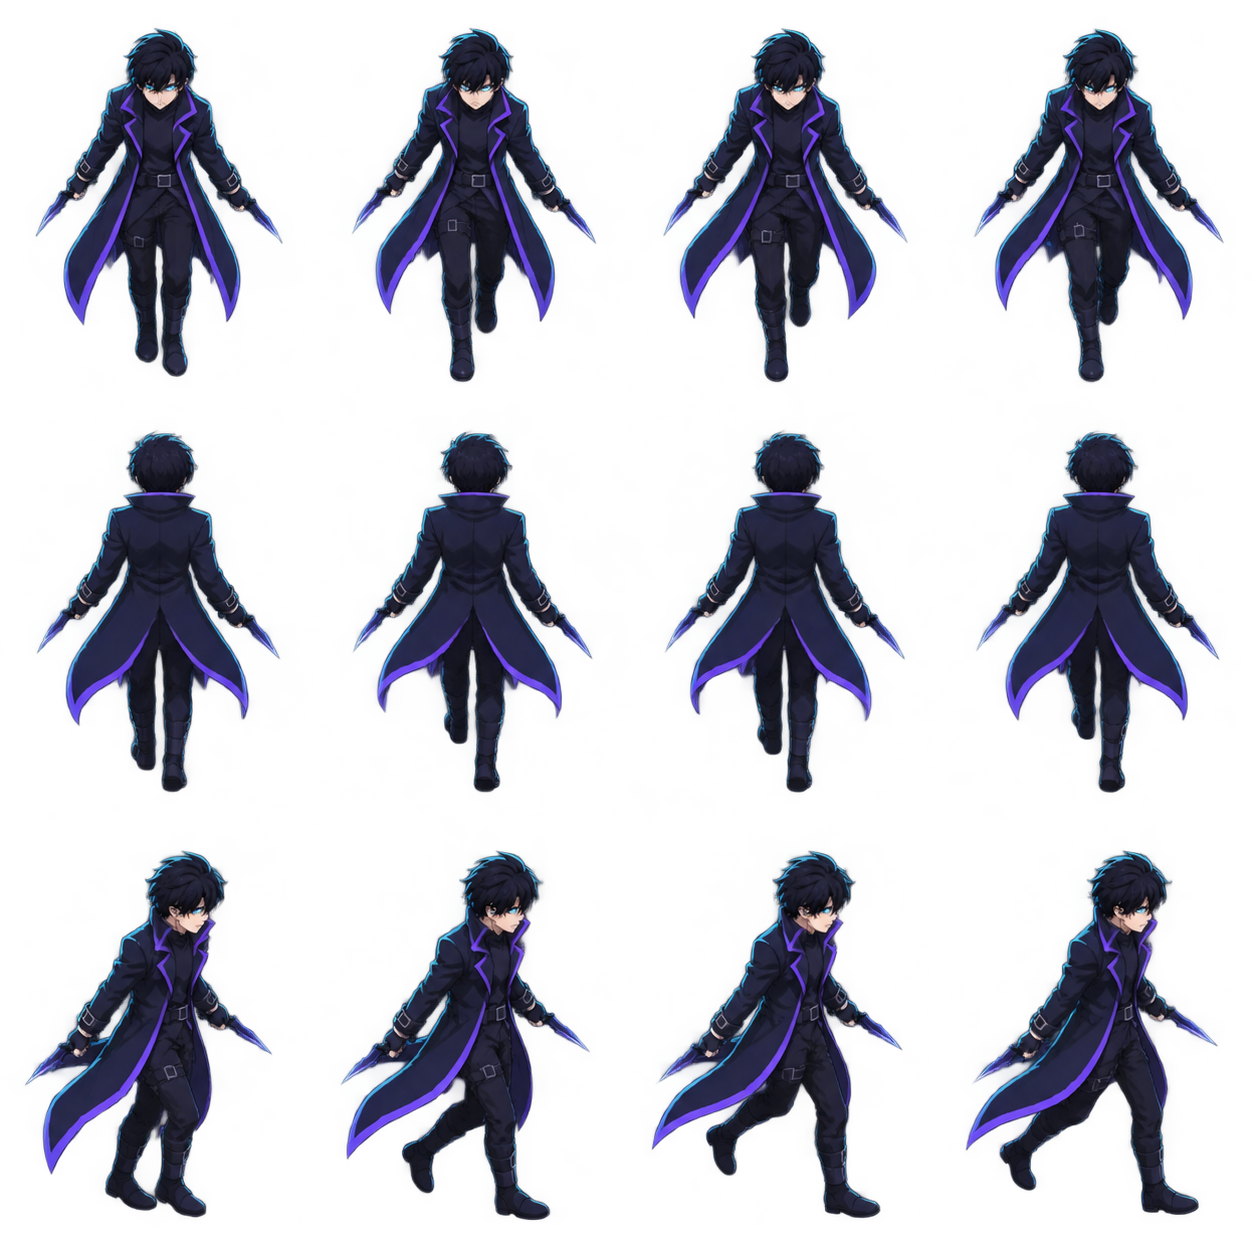
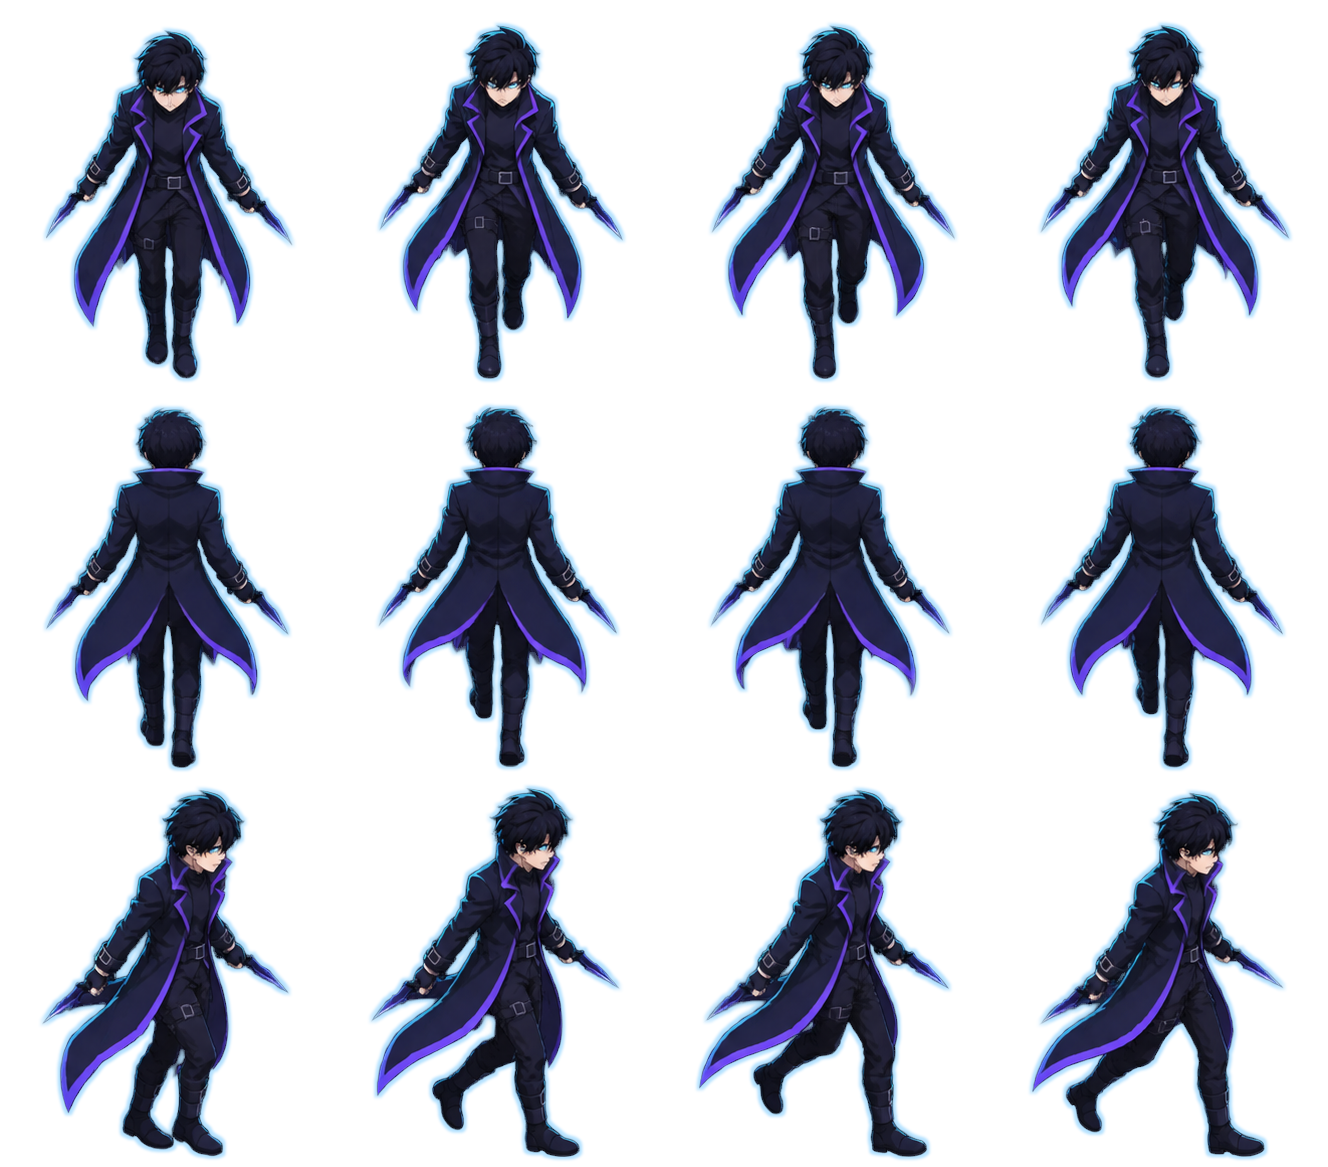
ART-02 이그리트 상태 시트와 플레이어 교체본 적용

diff --git a/docs/systems/07_shadow_summons.md b/docs/systems/07_shadow_summons.md
@@ -26,6 +26,13 @@
 3. 그림자는 적·플레이어·다른 그림자와 서로 밀어낸다. 질주 중 그림자-플레이어 쌍 제외는 확정한다(2026-11-10). 그림자가 포함된 쌍의 간격 0은 여전히 임시다. Separation_gap은 적끼리만 적용한다.
 4. 그림자는 중심에서 Body_radius만큼 맵 안쪽에 머물도록 보정한다. 화면 밖 이탈 자체를 금지하지 않는다. Move_speed 시작값 320은 플레이어 현재 250px/s보다 빠르다. 카메라 경계·추적 코드는 그대로다.
 
+### 이그리트 시트 표시 (ART-02)
+
+- `Sprite_layout=state3`은 1행 대기, 2행 오른쪽 이동, 3행 오른쪽 공격 시트다. 대기는 `Idle_fps`, 이동은 `Anim_fps`로4칸을 반복하고 이동의 x성분이 음수면 좌우 반전한다. x성분이0이면 직전 반전을 유지한다.
+- fan 공격 시작부터 실제 `Hit_time_sec` 타격 전까지 공격 행1번 칸을 유지하고, 기존 피해가 발생한 프레임에2번 칸을 표시한다. 그 뒤3·4번 칸을 각각 `Attack_after_frame_sec` 동안 표시한 뒤 대기/이동 표시로 돌아간다. 타격 시점·판정·모션 길이·공격 간격은 바꾸지 않는다. 공격 중 반전은 실제 공격 방향을 따른다.
+- 시트 한 칸은 원본 비율을 유지하며 화면 높이 `Sprite_cell_height`로 표시하고, 원본 `Sprite_baseline`을 판정 원 중심 아래 `Sprite_foot_y`에 맞춘다. 본체 아래에는32×12px·알파0.35의 검정 타원 그림자를 둔다.
+- 텔레포트 출발 잔상은 생성 순간의 칸·좌우 반전을 복제하고 기존 `Afterimage_sec`와 투명도를 유지한다. 잔상에는 발밑 그림자·판정이 없다. `Sprite_path`가 빈 베르는 기존 코드 도형과 도형 잔상을 그대로 사용한다.
+
 ### 적-그림자 분배와 그림자 간 조향 (S7-FIX-01)
 
 - 적-그림자 쌍은 겹침 해소량의 Enemy_push_share를 그림자가, 나머지 1-Enemy_push_share를 적이 받는다. 이 쌍에서는 Push_weight를 쓰지 않는다. 시작값은 0.1이며 0~1을 허용한다. 등록된 그림자 몸체가 이 값을 노출하며 밀어내기에서 읽는다. 적이 밀릴 공간이 없으면 기존 맵 보정·반복 처리에 따라 겹침이 남을 수 있다.
@@ -362,6 +369,16 @@ flowchart TD
 | Push_weight | 플레이어·그림자 쌍의 밀림 분배 무게 | 3 | Float | 상대 가중치 | 0 초과 | 불가 | 없음 | 자료형 오류: 데이터 오류 화면; 조건 위반: 데이터 오류 화면 | 없음 |
 | Attack_id | 이 그림자가 사용하는 공격 | igrit_attack | String | 해당 없음 | shadow_attack.csv에 참조 행 존재 | 불가 | shadow_attack.csv.Id | 자료형 오류: 데이터 오류 화면; 조건 위반: 데이터 오류 화면 | 없음 |
 | Enemy_push_share | 적-그림자 겹침 해소량 중 그림자가 받는 비율 | 0.1 | Float | 비율 | 0 이상 1 이하 | 불가 | 없음 | 자료형 오류: 데이터 오류 화면; 조건 위반: 데이터 오류 화면 | 적은 나머지 비율; 이 쌍은 Push_weight를 쓰지 않음 |
+| Sprite_path | 그림자 표시 시트 경로 | res://assets/art/shadow/igris_sheet.png | Optional Path | 해당 없음 | res:// 경로·역슬래시 없음·Texture2D 존재 | 허용 | 이미지 리소스 | 자료형/경로/이미지 오류: 데이터 오류 화면 | 빈칸이면 같은 행의 이미지 열도 모두 비우고 기존 코드 도형 사용 |
+| Sprite_layout | 시트의 행 배치 종류 | state3 | Optional String | 해당 없음 | 이미지 사용 그림자는 state3 | 이미지 미사용 시 허용 | Sprite_path | 조건 위반: 데이터 오류 화면 | state3=대기/이동/공격 행 |
+| Sprite_cols | 시트 가로 칸 수 | 4 | Optional Int | 칸 | 이미지 사용 시1 이상 | 이미지 미사용 시 허용 | Sprite_path | 자료형/조건 위반: 데이터 오류 화면 | 없음 |
+| Sprite_rows | 시트 세로 칸 수 | 3 | Optional Int | 칸 | 이미지 사용 시1 이상 | 이미지 미사용 시 허용 | Sprite_path | 자료형/조건 위반: 데이터 오류 화면 | 없음 |
+| Sprite_cell_height | 한 칸의 화면 표시 높이 | 112 | Optional Float | 화면 px | 이미지 사용 시 유한한 양수 | 이미지 미사용 시 허용 | Sprite_path | 자료형/조건 위반: 데이터 오류 화면 | 원본 비율 유지 |
+| Sprite_baseline | 원본 칸 위쪽부터 발 기준선까지 거리 | 410 | Optional Float | 원본 px | 이미지 사용 시 유한한 비음수 | 이미지 미사용 시 허용 | Sprite_path | 자료형/조건 위반: 데이터 오류 화면 | 없음 |
+| Sprite_foot_y | 판정 원 중심 아래 발 기준선 위치 | 8 | Optional Float | 화면 px | 이미지 사용 시 유한한 값 | 이미지 미사용 시 허용 | Sprite_baseline | 자료형/조건 위반: 데이터 오류 화면 | 아래 방향이 양수 |
+| Anim_fps | 이동4칸 반복 속도 | 8 | Optional Float | 칸/초 | 이미지 사용 시 유한한 양수 | 이미지 미사용 시 허용 | Sprite_path | 자료형/조건 위반: 데이터 오류 화면 | 없음 |
+| Idle_fps | 대기4칸 반복 속도 | 6 | Optional Float | 칸/초 | 이미지 사용 시 유한한 양수 | 이미지 미사용 시 허용 | Sprite_path | 자료형/조건 위반: 데이터 오류 화면 | 없음 |
+| Attack_after_frame_sec | 타격 뒤 공격3·4번 칸 각각의 표시 시간 | 0.1 | Optional Float | 초 | 이미지 사용 시 유한한 양수 | 이미지 미사용 시 허용 | shadow_motion.csv.Hit_time_sec | 자료형/조건 위반: 데이터 오류 화면 | 타격 전1번, 타격 순간2번 칸은 실제 공격 시점에 종속 |
 | Name_ko | 보유 그림자 HUD에 표시할 이름 | 이그리트 | String | 해당 없음 | 문자열(내용 제한 검증 없음) | 허용 | 없음 | 검증 없음(문자열 내용) | Name_ko로 표시, Id를 표시 이름으로 하드코딩하지 않음 |
 | Icon | 보유 그림자 HUD의 이미지 경로 | (빈칸) | Optional Path | 해당 없음 | res:// 경로·역슬래시 없음·리소스 존재·Texture2D 이미지 | 허용 | 이미지 리소스 | 자료형/경로/이미지 오류: 데이터 오류 화면 | 빈칸은 shadow_visual 임시 모양으로 대체 |
 
@@ -438,3 +455,4 @@ flowchart TD
 - 2026-11-13 S8-IMPL-03-B: 선택창 실제 소환 성립 토스트를 추가했다. 기존 그림자 강화·스킬은 제외하며 텔레포트 판정/잔상 수명 유지.
 
 - 2026-11-14 MVP-01: MVP 그림자를 이그리트·베르·벨리온3종으로 조정하고 한 판 채용 한도를2종으로 낮춘다. 벨리온은 B단계 추가 대상이며4·5번째 종류는 MVP 이후 후보로 보존한다.
+- 2026-11-14 ART-02: 이그리트에 state3 대기/이동/공격 시트와 발밑 그림자·포즈 잔상을 연결한다. 공격 칸은 기존 타격 순간에 맞추며 판정·BT·수치·부채꼴 표시는 유지한다. 베르는 이미지 열을 비워 기존 도형을 유지하며 직접 플레이 확인 전이다.

diff --git a/docs/devlog.md b/docs/devlog.md
@@ -781,6 +781,14 @@
 - **검증 주체·방법·결과:** Codex P0 1회차는3542개 실패0·종료0이었다. import 내부 mipmap 판정을 추가한2회차는 기존 Godot 캐시가 이전 설정을 담아3543개 중1실패·종료1이었고, 캐시를 `.local`에 보존한 뒤 `.import` 설정으로 재생성한3회차는3543개 실패0·허용 S1-01 불일치2·종료0이었다. 최종 runtime 2회차도 종료0이며 정상 회차 stderr는 인증서2줄뿐이다. 원문 경로는 `.local/reports/ART-01.md`에 기록한다. 자동 검사는 이미지 품질·발 위치 체감·애니메이션 자연스러움의 직접 플레이 승인이 아니다.
 - **남은 문제:** 실제 화면에서 방향 전환·기준선·그림자·질주 잔상과 은신 등 기존 표시 효과가 자연스러운지 사용자 확인이 필요하다.
 
+## [아트 연결] 이그리트 상태 시트와 플레이어 교체본 (ART-02)
+
+- **목표:** (2026-11-14) 사용자가 정리한1328×1167 플레이어 시트를 다시 import하고, 이그리트1920×1260 시트를 기존 공격 판정 시점에 맞춰 표시한다.
+- **사용자 자료와 결정:** 플레이어는 기존 `dir3` 동작과 높이88을 유지한다. 이그리트는 `state3`의 대기/오른쪽 이동/오른쪽 공격 행을 사용하며 왼쪽은 반전한다. 공격1번 칸은 타격 전, 실제 타격 순간2번, 이후3·4번은 각각0.1초다. 베르는 이미지 없이 기존 도형을 유지한다.
+- **변경 내용:** 공용 SpriteBody에 배치 종류와 state3 상태 API를 추가하고, shadow.csv의 이미지 열을 이그리트에만 채운다. 이그리트 본체와 텔레포트 출발 잔상에 현재 칸·반전을 연결하되 기존 부채꼴·피해·BT·공격 간격은 유지한다.
+- **검증 주체·방법·결과:** Codex P0 1회차는3,564개 실패0·허용 S1-01 불일치2·종료0(92.172초), runtime 1회차는 종료0(3.476초)이었다. 두 회차 stderr는 허용된 인증서2줄뿐이며 원문은 `.local/art-02-p0-attempt1.*`, `.local/art-02-runtime-attempt1.*`, 결과는 `.local/reports/ART-02.md`에 기록한다. 자동 검사는 실제 화면의 비율·발 위치·공격 동작 자연스러움 승인과 구분한다.
+- **남은 문제:** 플레이어 교체본과 이그리트 대기/이동/공격·반전·잔상을 직접 플레이로 확인해야 한다.
+
 ## 다음 기록 양식
 
 - **목표:**
